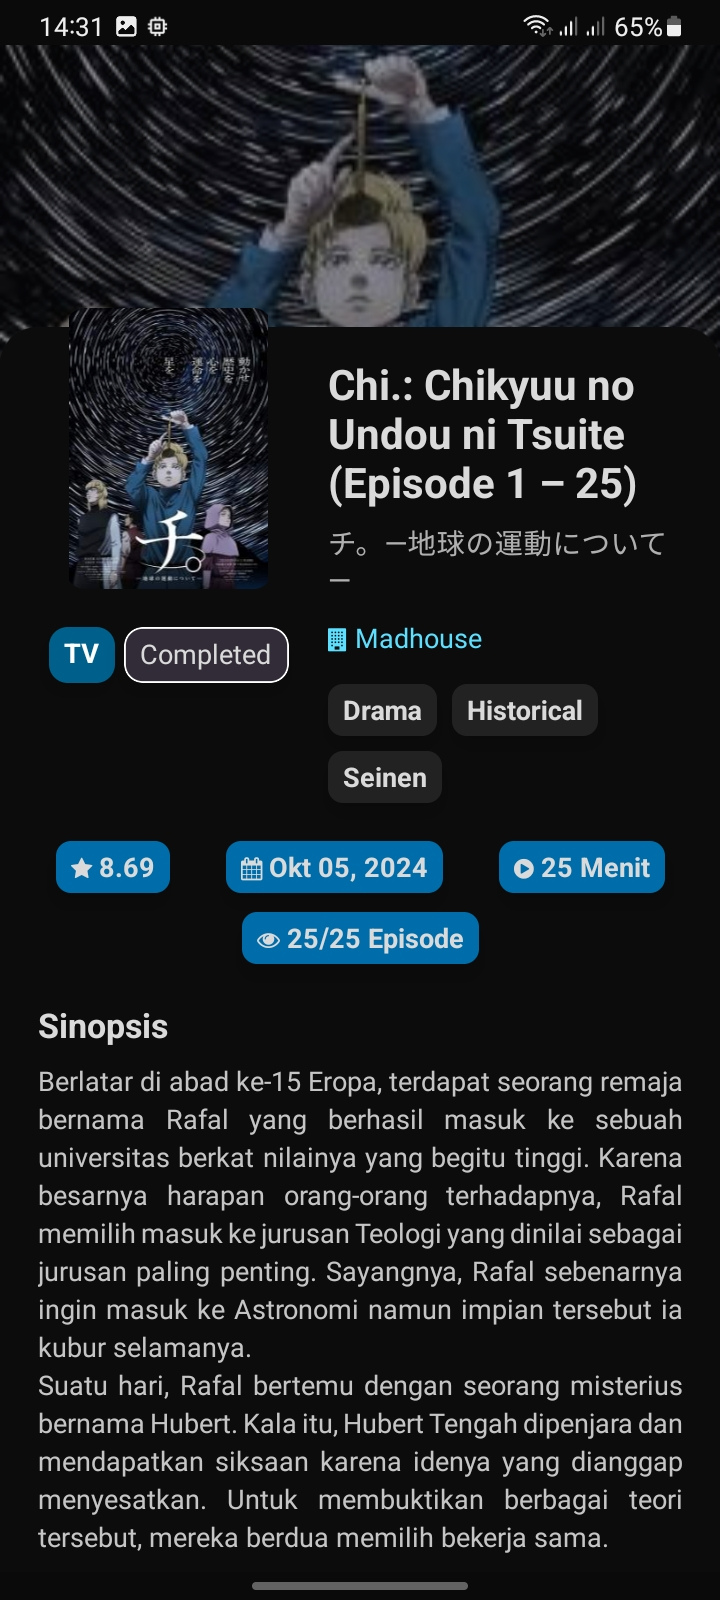
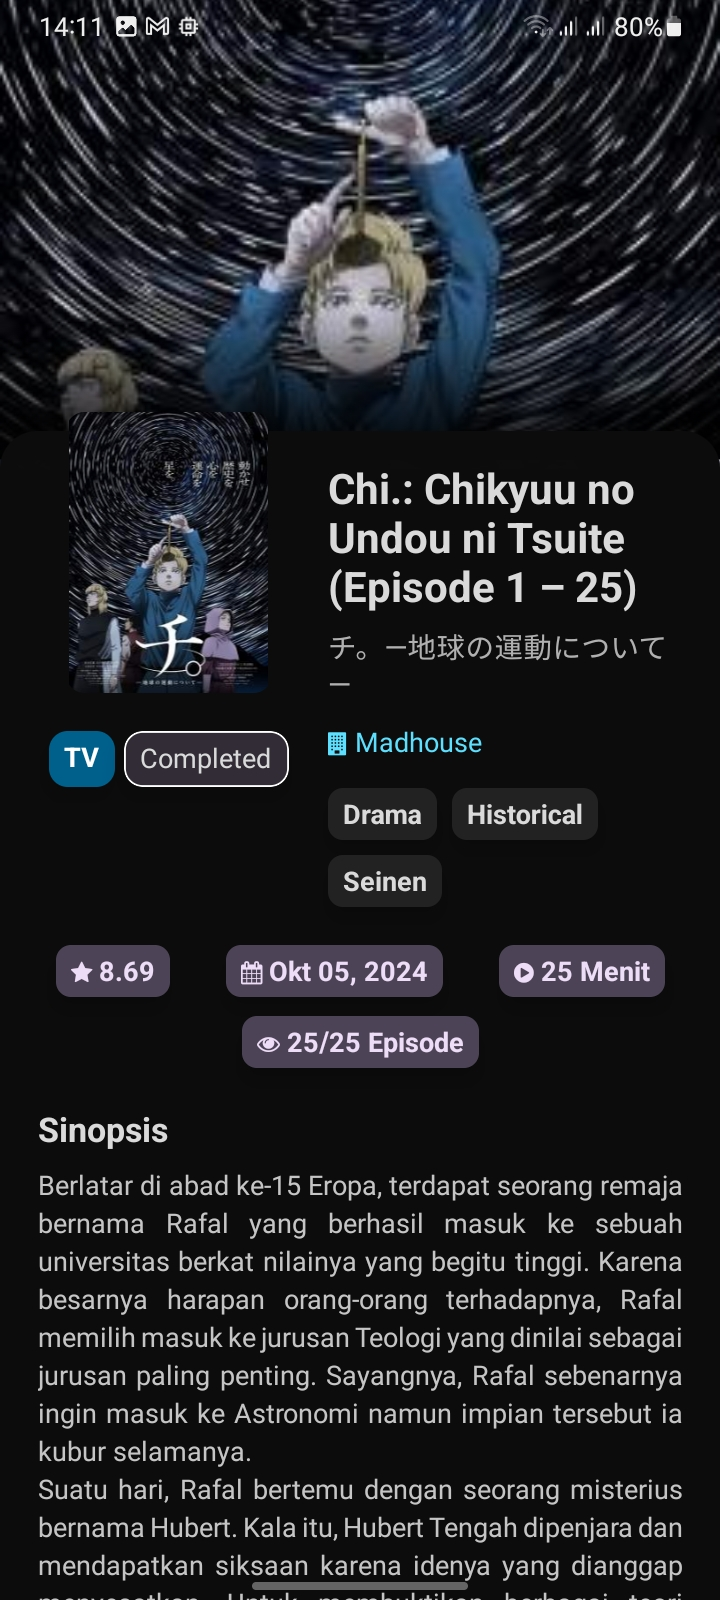
Release: v1.0.1

diff --git a/CHANGELOG.md b/CHANGELOG.md
@@ -1,3 +1,15 @@
+# v1.0.1 (9-Juli-2025)
+
+Update kali ini memperbaiki tampilan edge-to-edge sekaligus mengaktifkannya untuk seluruh versi android, serta beberapa perbaikan dan peningkatan tampilan.
+## Ditambahkan
+- Tombol fullscreen ketika membaca komik
+## Disesuaikan
+- Mengaktifkan tampilan edge-to-edge untuk semua versi android
+- Pewarnaan yang lebih konsisten
+- Kecepatan animasi quote disesuaikan agar sesuai dengan panjang teks
+## Diperbaiki
+- Beberapa perbaikan kecil...
+
 # v1.0.0_JS-3 (28-Juni-2025)
 
 ## Diperbaiki
